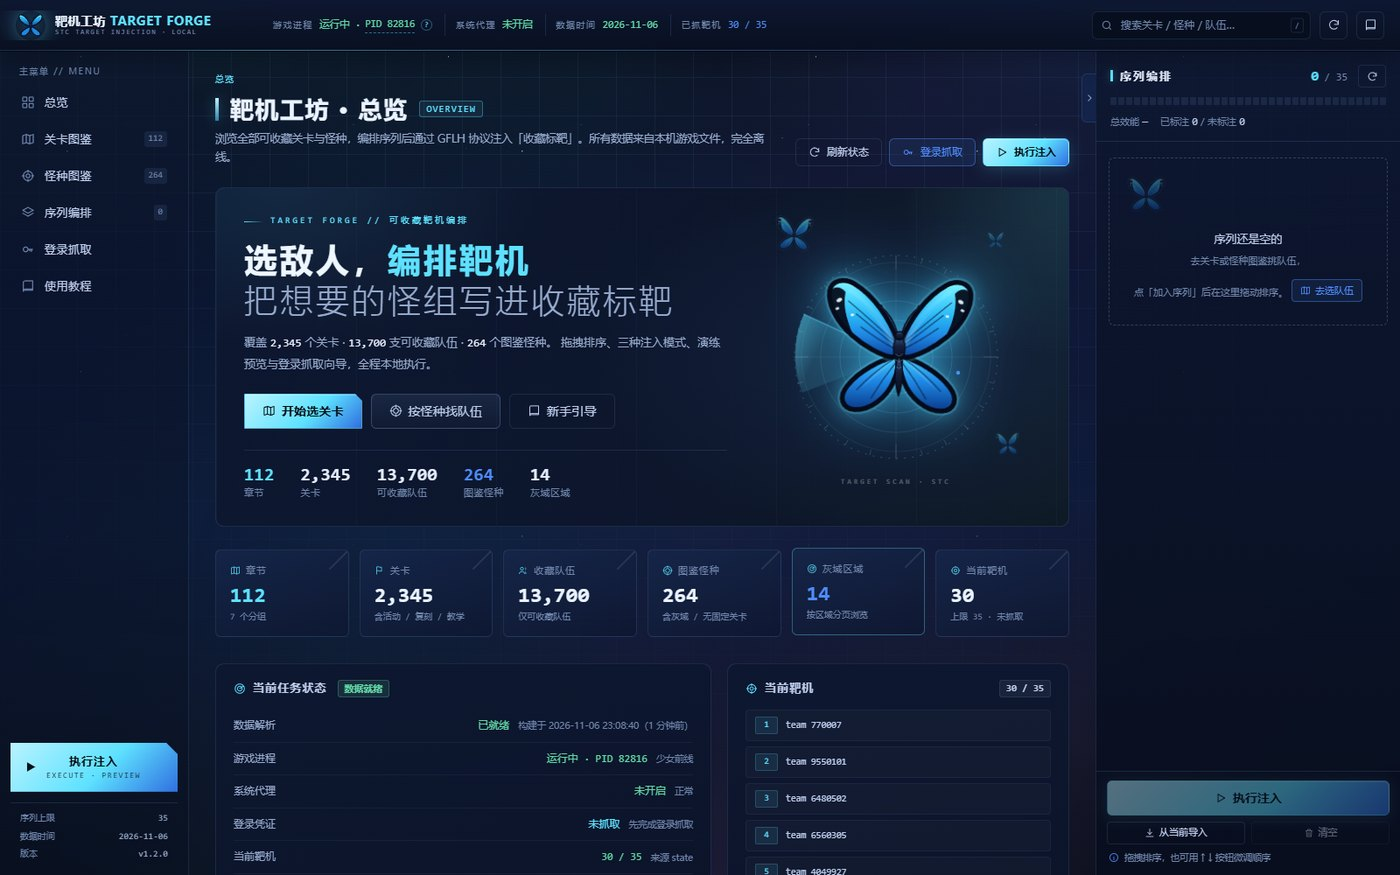
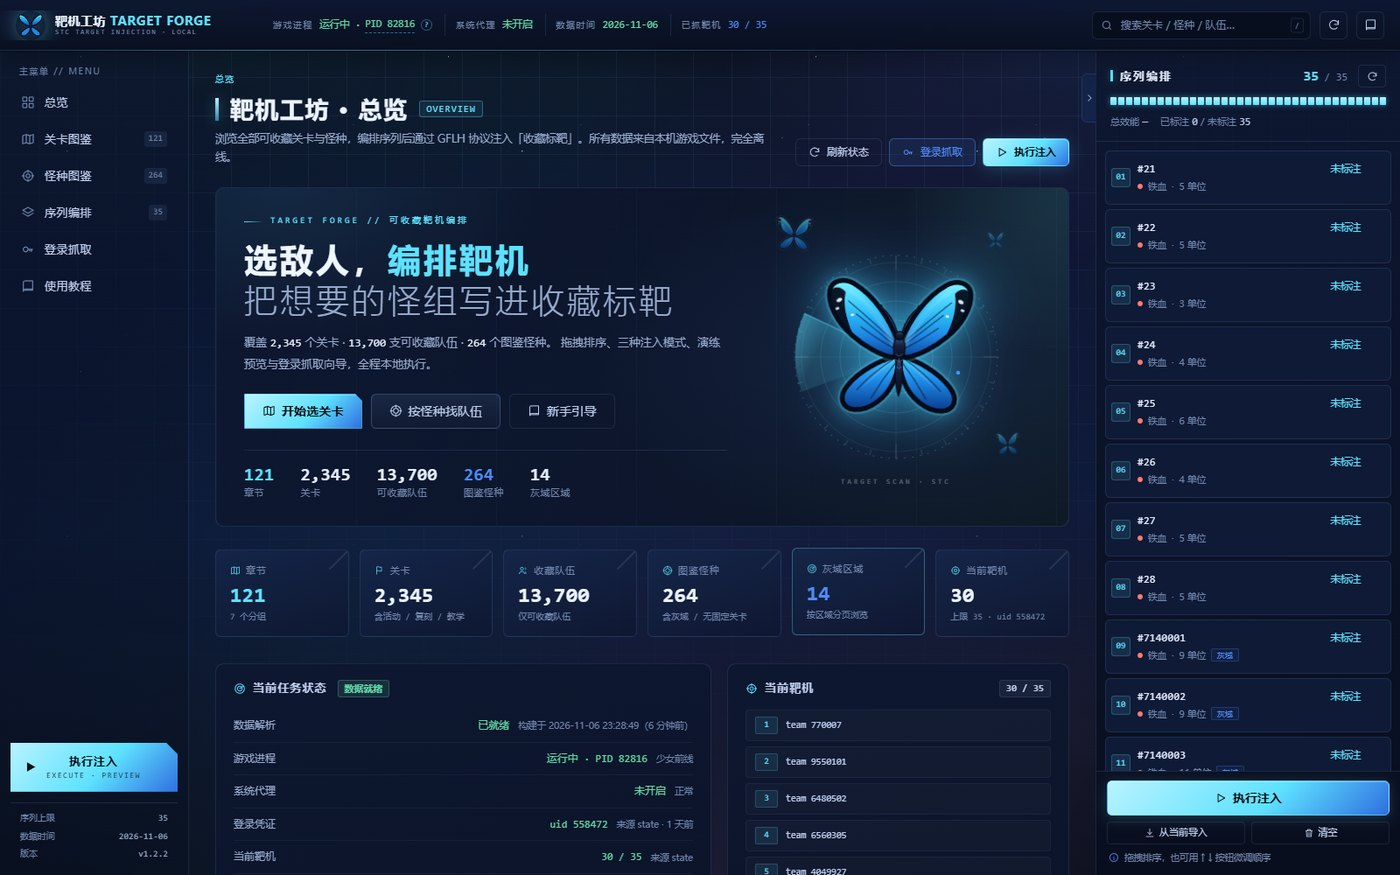
v1.2.2：积分关卡改为 mission.event_score 精确判定（思域迷航·禁止喂食EX 等 53 个积分关卡按 mission 拆章）

diff --git a/targetforge/tests/test_catalog.py b/targetforge/tests/test_catalog.py
@@ -4,12 +4,12 @@
 
     python -m unittest targetforge.tests.test_catalog -v
 
-覆盖任务验收点（task-7）：
-* 章节 7 组（main/event/score/tutorial/simulation/grayzone/orphan），活动/往期复刻/
-  特殊作战合并进 event，积分关卡独立成组，自画像可搜；
+覆盖任务验收点（task-11）：
+* 章节 7 组（main/event/score/tutorial/simulation/grayzone/orphan）；活动/往期复刻/
+  特殊作战合并进 event；积分关卡按 **mission.event_score**（mission 级）拆章：
+  混合活动（思域迷航）拆成 event+score 两章，全积分 campaign 只有 score 章；
 * 灰域 14 个区域（含 庇护所旧址 / 坍缩狭缝）；
-* 物种非互斥 flag：normal/grayzone/orphan 过滤数 = 244/66/211（±2），灰域过滤含
-  法官（灰域Boss）变体；
+* 物种非互斥 flag：normal/grayzone/orphan 过滤数 = 244/66/211（±2）；
 * 效能 power / power_known + power_min/power_max/power_known/sort 筛选排序；
 * 队伍/物种列表分页；species() 无参仍返回全量 teams（app.py 兼容）；
 * 小怪图标：icon 字段（species / team_summary.species / detail members）+ 覆盖率；
@@ -35,14 +35,26 @@ EXPECT_TEAMS = 13700
 EXPECT_SPECIES = 264
 EXPECT_STAGES = 2345
 EXPECT_MISSIONS_IN_TABLE = 3986
-EXPECT_CHAPTERS = 112
+EXPECT_CHAPTERS = 121
 
 GROUP_ORDER = ["main", "event", "score", "tutorial", "simulation", "grayzone", "orphan"]
 GROUP_TITLES = ["主线", "活动", "积分关卡", "教学", "模拟作战", "灰域探查", "无固定关卡"]
-EXPECT_GROUP_CHAPTERS = {"main": 14, "event": 74, "score": 15, "tutorial": 6,
+EXPECT_GROUP_CHAPTERS = {"main": 14, "event": 73, "score": 25, "tutorial": 6,
                          "simulation": 1, "grayzone": 1, "orphan": 1}
-EXPECT_GROUP_STAGES = {"main": 140, "event": 843, "score": 25, "tutorial": 40,
+EXPECT_GROUP_STAGES = {"main": 140, "event": 815, "score": 53, "tutorial": 40,
                        "simulation": 9, "grayzone": 1288, "orphan": 0}
+#: mission.event_score 非空且有可收藏队伍的积分关卡
+EXPECT_SCORE_STAGES = 53
+EXPECT_SCORE_CHAPTERS = 25
+#: v1.4 期望的 score 章节标题（15 个全积分 campaign + 8 个混合活动的「· 积分关卡」章 + 静默沙盘）
+EXPECT_SCORE_TITLES = {
+    "终焉花海+", "谜境守卫+", "混沌落幕+", "噩梦迷城+", "驱雾行动+", "秘密涡点+",
+    "飓风营救+", "马蜂窝+", "虚数迷宫+", "坠入兔洞+", "贝蒂数", "逃亡圣咏",
+    "自画像", "从潘洛斯阶梯跃下", "铁雨礼赞", "静默沙盘",
+    "思域迷航 · 积分关卡", "迷笼猜想 · 积分关卡", "里坎禁猎区 · 积分关卡",
+    "静风点 · 积分关卡", "熵减焓增 · 积分关卡", "镜像论 · 积分关卡",
+    "双联乱数 · 积分关卡", "偏振光 · 积分关卡", "裂变链接 · 积分关卡",
+}
 
 GRAY_AREAS = ["共生净土", "晶团挖掘点", "旅团商道", "放射区", "人形复制工厂",
               "废弃居民区", "秘密通道", "图腾圣所", "装甲突击", "交易地",
@@ -203,33 +215,75 @@ class CatalogDataTest(unittest.TestCase):
         self.assertEqual(self.catalog.stage(1104)["stage"]["chapter_id"], "simulation")
 
     def test_score_chapters(self):
+        """score 是 mission.event_score 判定（mission 级）：25 章 / 53 关。"""
         score = self.groups["score"]
-        self.assertEqual(len(score["chapters"]), 15)
+        self.assertEqual(len(score["chapters"]), EXPECT_SCORE_CHAPTERS)
+        self.assertEqual(sum(chapter["stage_count"] for chapter in score["chapters"]),
+                         EXPECT_SCORE_STAGES)
         for chapter in score["chapters"]:
             self.assertEqual(chapter["category"], "score")
+            self.assertEqual(chapter["kind"], "score")
             self.assertEqual(chapter["tags"], ["积分关卡"])
             self.assertIn("积分关卡", chapter["subtitle"])
-        # 自画像：标题=自画像，parent 慢休克（-40403）
+        # 标题集合：全积分 campaign + 混合活动的「· 积分关卡」章
+        self.assertEqual({chapter["title"] for chapter in score["chapters"]},
+                         EXPECT_SCORE_TITLES)
+        # 自画像：标题=自画像，parent 慢休克（-40403，全部任务都是积分关卡）
         portrait = next((chapter for chapter in score["chapters"]
                          if chapter["title"] == "自画像"), None)
-        self.assertIsNotNone(portrait, [c["title"] for c in score["chapters"]])
+        self.assertIsNotNone(portrait)
         self.assertEqual(portrait["stage_count"], 2)
         self.assertIn("慢休克", portrait["subtitle"])
-        self.assertIn("积分关卡", portrait["subtitle"])
-        # 积分关卡必须是「单关（或 -4040x 强制）」的 campaign：不是 4 关的魔方行动+
-        self.assertEqual({chapter["title"] for chapter in score["chapters"]}, {
-            "终焉花海+", "谜境守卫+", "混沌落幕+", "噩梦迷城+", "驱雾行动+",
-            "秘密涡点+", "飓风营救+", "马蜂窝+", "虚数迷宫+", "坠入兔洞+",
-            "贝蒂数", "逃亡圣咏", "自画像", "从潘洛斯阶梯跃下", "铁雨礼赞",
-        })
-        self.assertNotIn("魔方行动", [chapter["title"] for chapter in score["chapters"]])
-        self.assertNotIn("盲拆法则", [chapter["title"] for chapter in score["chapters"]])
-        # 搜索：自画像 / 积分关卡 / 慢休克 都能命中
-        for query in ("自画像", "积分关卡", "慢休克"):
+        # 贝蒂数：9 关全部 event_score，含 三维流形 G-1..S-2
+        beiti = self.catalog.chapter("score--40401")
+        self.assertIsNotNone(beiti)
+        self.assertEqual(beiti["chapter"]["stage_count"], 9)
+        beiti_titles = [stage["title"] for stage in beiti["stages"]]
+        self.assertIn("三维流形G-1", beiti_titles)
+        self.assertIn("三维流形S-2", beiti_titles)
+        # 搜索：自画像 / 积分关卡 / 三维流形 / 禁止喂食EX 都能命中 score 关卡
+        for query in ("自画像", "积分关卡", "三维流形", "禁止喂食EX"):
             result = self.catalog.search(query, limit=10)
             self.assertTrue(result["stages"], f"搜索 {query!r} 没有结果")
-        result = self.catalog.search("自画像")
-        self.assertTrue(any(stage["chapter_title"] == "自画像" for stage in result["stages"]))
+        portrait_hits = self.catalog.search("自画像")["stages"]
+        self.assertTrue(any(stage["chapter_title"] == "自画像" for stage in portrait_hits))
+        weidu = self.catalog.search("三维流形")["stages"]
+        self.assertTrue(any(stage["chapter_title"] == "贝蒂数" for stage in weidu))
+
+    def test_event_score_mission_split(self):
+        """混合活动拆章：思域迷航(-61) 2 关进 score，其余 20 关留在 event。"""
+        score = {chapter["id"]: chapter for chapter in self.groups["score"]["chapters"]}
+        event = {chapter["id"]: chapter for chapter in self.groups["event"]["chapters"]}
+        # 思域迷航：score 只含 禁止喂食 / 禁止喂食EX
+        score_chapter = self.catalog.chapter("score--61")
+        self.assertIsNotNone(score_chapter)
+        self.assertEqual(score_chapter["chapter"]["stage_count"], 2)
+        self.assertEqual(sorted(stage["title"] for stage in score_chapter["stages"]),
+                         ["禁止喂食", "禁止喂食EX"])
+        self.assertEqual({stage["id"] for stage in score_chapter["stages"]},
+                         {11445, 11458})
+        self.assertIn("思域迷航", score_chapter["chapter"]["title"])
+        # 同 campaign 的 event 章保留其余 20 关且不含积分关卡任务
+        event_chapter = self.catalog.chapter("event--61")
+        self.assertIsNotNone(event_chapter)
+        self.assertEqual(event_chapter["chapter"]["stage_count"], 20)
+        event_ids = {stage["id"] for stage in event_chapter["stages"]}
+        self.assertFalse(event_ids & {11445, 11458})
+        # 全积分 campaign 不再生成 event 章（贝蒂数 / 终焉花海+ / 静默沙盘）
+        for campaign in (-40401, -55, -77):
+            self.assertNotIn(f"event-{campaign}", event)
+            self.assertIn(f"score-{campaign}", score)
+        # 全局：score 关卡与 event 关卡集合不重叠
+        score_stage_ids = {stage["id"] for chapter in score.values()
+                           for stage in self.catalog.chapter(chapter["id"])["stages"]}
+        event_stage_ids = {stage["id"] for chapter in event.values()
+                           for stage in self.catalog.chapter(chapter["id"])["stages"]}
+        self.assertEqual(len(score_stage_ids), EXPECT_SCORE_STAGES)
+        self.assertFalse(score_stage_ids & event_stage_ids)
+        # 普通 EX 无 event_score 的不算积分关卡；10365 终焉花海EX 有 event_score
+        self.assertIn(11451, event_stage_ids)       # 同频干扰EX（无 event_score）
+        self.assertNotIn(11451, score_stage_ids)
+        self.assertIn(10365, score_stage_ids)       # 终焉花海EX（有 event_score）
 
     # -- 灰域 14 区域 -------------------------------------------------
     def test_grayzone_areas(self):

diff --git a/targetforge/catalog.py b/targetforge/catalog.py
@@ -14,9 +14,10 @@ v1.2 变化（用户实测反馈）
 1. **章节 7 组**：``main``（主线）/ ``event``（活动）/ ``score``（积分关卡）/
    ``tutorial``（教学）/ ``simulation``（模拟作战）/ ``grayzone``（灰域探查）/
    ``orphan``（无固定关卡）。往期复刻、特殊作战并入 event（用 subtitle/tags 标记）。
-   积分关卡 = campaign ∈ {-40401..-40405} 强制；其余活动名含「+」的 campaign
-   必须**只有 1 个有可收藏队伍的 mission** 才算（4 关的 魔方行动+ 是常驻/复刻活动，
-   归 event 组并用「往期复刻」标记）。
+   积分关卡是 **mission 级**：``mission.event_score`` 非空即积分关卡（权威字段）。
+   同一 campaign 里只有部分任务是积分关卡时会拆成 score 章 + event 章（如
+    思域迷航 -61：禁止喂食/禁止喂食EX 进 score，其余 20 关留在 event）；全积分
+    campaign（贝蒂数、终焉花海+、自画像、-77 静默沙盘…）只生成 score 章。
 2. **灰域 14 个区域**：区域名直接取 client_text 的 mission 标题前缀
    （去掉尾部 ``-I/II`` 编号和空格），包含 庇护所旧址 / 坍缩狭缝。
 3. **怪种分类改为非互斥 flag**：``has_normal`` / ``has_grayzone`` / ``has_orphan``
@@ -114,7 +115,8 @@ GROUP_TAGS = {
     "orphan": ["无固定关卡"],
 }
 
-#: 固定属于「积分关卡」的 campaign（用户实测：贝蒂数/逃亡圣咏/自画像/从潘洛斯阶梯跃下/铁雨礼赞）
+#: -4040x 积分关卡的标题优先用 mission_event.event_name
+#: （例如 -40403 的章节名是「慢休克」，但积分关卡名是「自画像」）
 SCORE_SPECIAL_CAMPAIGNS: frozenset[int] = frozenset({-40401, -40402, -40403, -40404, -40405})
 
 #: 模拟作战的固定 mission id 段（1104..1106 的 map_res 是 OPS5_Y，1701..1745 是靶场系列）
@@ -505,11 +507,12 @@ def _classify_mission(
     mid: int,
     mission: dict,
     *,
-    score_campaigns: set[int],
+    score_mission_ids: set[int],
 ) -> tuple[str | None, str | None]:
     """返回 ``(category, chapter_id)``；None 表示该关卡不产生章节。
 
-    活动/积分关卡按 campaign 一章（不跨 campaign 合并），章节标题在聚合阶段补。
+    积分关卡 = ``mission.event_score`` 非空的 mission（mission 级，见任务 v1.4）；
+    同一 campaign 的其它任务仍归 event 章节，全积分 campaign 只生成 score 章节。
     """
     campaign = _int(mission.get("campaign"))
     map_res = str(mission.get("map_res_name") or "")
@@ -526,8 +529,8 @@ def _classify_mission(
     # 4. 主线：campaign 0..13、id < 90000、非模拟作战地图
     if 0 <= campaign <= 13 and mid < 90000 and not map_res.startswith("Moni"):
         return ("main", f"main-{campaign}")
-    # 5. 积分关卡
-    if campaign in score_campaigns:
+    # 5. 积分关卡：mission.event_score 非空（mission 级判定）
+    if mid in score_mission_ids:
         return ("score", f"score-{campaign}")
     # 6. 其余全部并入活动（往期复刻 / 特殊作战 也在这里，靠 subtitle/tags 区分）
     return ("event", f"event-{campaign}")
@@ -602,9 +605,8 @@ def _build_payload() -> dict:
             "chapter_name": _clean_text(text.get(str(row.get("chapter_name") or ""), "")),
             "tag": _clean_text(text.get(str(row.get("tag") or ""), "")),
         }
-    # 含「+」的活动 campaign 候选：是否算积分关卡还要看该 campaign 有几个
-    # 有可收藏队伍的 mission（见 mission_teams 构建后的判定）——4 关的
-    # 魔方行动+（campaign -6/-7）是常驻/复刻活动，不是积分关卡。
+    # 含「+」的活动 campaign（用于 event 章节的「往期复刻」标记，如 魔方行动+ -6/-7；
+    # 是否积分关卡由 mission.event_score 决定，见 mission_teams 构建后的判定）
     plus_campaigns: set[int] = set()
     for campaign, activity in campaign_to_act.items():
         if _has_plus(activity.get("chapter_name")):
@@ -639,19 +641,22 @@ def _build_payload() -> dict:
                 mission_teams[mission_id].add(team_id)
                 team_missions[team_id].add(mission_id)
 
-    # ---- 积分关卡判定（必须在 mission_teams 之后） ----------------------
-    # 1) campaign ∈ {-40401..-40405} → 强制积分关卡（可 1~9 关）；
-    # 2) 其余活动名含「+」且该 campaign **只有 1 个有可收藏队伍的 mission** → 积分关卡；
-    #    多关的「+」活动（如 魔方行动+ campaign -6/-7，4 关）是常驻/复刻活动，回 event 组。
-    campaign_mission_counts: Counter = Counter()
+    # ---- 积分关卡判定（权威字段：mission.event_score 非空，mission 级） ----
+    # 用户实测：积分关卡是 mission 级而不是 campaign 级。
+    # 只有 event_score 非空、且该 mission 有可收藏队伍、且不是灰域的任务才算积分关卡；
+    # 同一 campaign 的其它任务仍留在 event 章节（混合活动会拆成 event+score 两章）。
+    score_mission_ids: set[int] = set()
     for mission_id in mission_teams:
         mission = missions.get(mission_id)
-        if mission is not None:
-            campaign_mission_counts[_int(mission.get("campaign"))] += 1
-    score_campaigns: set[int] = set(SCORE_SPECIAL_CAMPAIGNS)
-    for campaign in plus_campaigns:
-        if campaign_mission_counts.get(campaign, 0) == 1:
-            score_campaigns.add(campaign)
+        if mission is None:
+            continue
+        if _int(mission.get("campaign")) == -404:
+            continue
+        if str(mission.get("event_score") or "").strip():
+            score_mission_ids.add(mission_id)
+    score_campaigns: set[int] = {
+        _int((missions.get(mid) or {}).get("campaign")) for mid in score_mission_ids
+    }
 
     # ---- 关卡归类 → 章节骨架（每个 campaign 一章，不跨 campaign 合并） --
     gray_stage_ids: list[int] = []
@@ -675,7 +680,7 @@ def _build_payload() -> dict:
             mid_chapter[mission_id] = "event-unknown"
             continue
         category, chapter_id = _classify_mission(
-            mission_id, mission, score_campaigns=score_campaigns)
+            mission_id, mission, score_mission_ids=score_mission_ids)
         if category is None:
             continue
         campaign = _int(mission.get("campaign"))
@@ -1009,12 +1014,16 @@ def _build_payload() -> dict:
         elif category == "simulation":
             title = "模拟作战·靶场"
         elif category == "score":
+            kind = "score"
             if campaign in SCORE_SPECIAL_CAMPAIGNS:
                 # -404xx：章节名可能被大活动名占用（-40403 = 慢休克 / 自画像），优先 event_name
-                title = event_name or chapter_name or first_title or f"积分关卡 {campaign}"
+                base_title = event_name or chapter_name or first_title or f"积分关卡 {campaign}"
             else:
-                # 带「+」的积分关卡：优先活动内章节名（如 终焉花海+ / 混沌落幕+）
-                title = chapter_name or event_name or first_title
+                # 其它积分关卡：优先活动内章节名（如 终焉花海+ / 混沌落幕+ / 思域迷航）
+                base_title = chapter_name or event_name or first_title
+            # 混合活动（同 campaign 还有非积分关卡任务）会同时存在 event 章，标题加后缀区分
+            mixed = campaign is not None and f"event-{campaign}" in chapters
+            title = f"{base_title} · 积分关卡" if mixed and base_title else base_title
             parent = activity_name or event_name
             subtitle = f"{parent} · 积分关卡" if parent else "积分关卡"
             tags = ["积分关卡"]

diff --git a/targetforge/app.py b/targetforge/app.py
@@ -25,7 +25,7 @@ APP_DIR = Path(__file__).resolve().parent
 ROOT = APP_DIR.parent
 STATIC_DIR = APP_DIR / "static"
 MAX_TARGETS = 35
-VERSION = "1.2.0"
+VERSION = "1.2.2"
 
 if str(ROOT) not in sys.path:
     sys.path.insert(0, str(ROOT))

diff --git a/README.md b/README.md
@@ -8,7 +8,7 @@
 
 ![总览：深蓝星空 + 大蓝闪蝶](docs/screenshots/overview.jpg)
 
-| 关卡图鉴：7 组 112 章（含积分关卡） | 怪种图鉴：每只怪都有真实头像 |
+| 关卡图鉴：7 组 121 章（含积分关卡） | 怪种图鉴：每只怪都有真实头像 |
 |---|---|
 | ![关卡图鉴](docs/screenshots/chapters.jpg) | ![怪种图鉴](docs/screenshots/species.jpg) |
 
@@ -24,7 +24,7 @@
 
 ## 功能
 
-- **关卡图鉴**：**7 组 112 章 2345 关**——主线 / 活动（含往期复刻、特殊作战）/ **积分关卡**
+- **关卡图鉴**：**7 组 121 章 2345 关**——主线 / 活动（含往期复刻、特殊作战）/ **积分关卡**（按 mission.event_score 精确标记，混合活动会单独拆出积分关卡章，如「思域迷航 · 积分关卡：禁止喂食 / 禁止喂食EX」）
   （终焉花海+、谜境守卫+、自画像、贝蒂数…）/ 教学 / 模拟作战 / 灰域探查 / 无固定关卡；
   章节卡 → 关卡列表 → 该关可收藏队伍，支持「整关全部加入序列」。
 - **怪种图鉴**：264 个图鉴怪种，每只怪都有从**本机游戏资源提取的真实头像**（透明底 160px）；
@@ -44,7 +44,7 @@
   抓取 uid / sign / 当前靶机 → 关闭代理；也可加载历史凭证列表。
 - **教程**：首次进入自动 6 步新手引导；教程页含概念、完整流程、抓取分步、三种执行模式、10 条 FAQ、安全须知。
 
-数据规模（以当前国服客户端为例）：7 组 112 章 / 2345 关 / 13,700 支可收藏队伍 / 264 个可收藏怪种 /
+数据规模（以当前国服客户端为例）：7 组 121 章（活动 73 + 积分关卡 25）/ 2345 关 / 13,700 支可收藏队伍 / 264 个可收藏怪种 /
 灰域 14 区域 3352 队 / 无固定关卡 4381 队。
 
 ## 前置依赖
@@ -136,7 +136,7 @@ python -c "from targetforge import catalog; catalog.build(force=True)"
 ## 验证
 
 ```powershell
-python -m unittest discover -s targetforge/tests -t .      # 123 个单测（app / catalog / gflh）
+python -m unittest discover -s targetforge/tests -t .      # 125 个单测（app / catalog / gflh）
 python targetforge/tools/api_smoke.py --url http://127.0.0.1:8765   # 真实数据 API 冒烟（29 项）
 python targetforge/tools/ui_selfcheck.py --url http://127.0.0.1:8765 # Playwright 页面自检 + 16 张截图
 ```
@@ -176,6 +176,13 @@ gflh_advance/
   常规关卡队伍该字段为 0；没有可靠公式可以从面板数值反推，所以应用不伪造效能，只对「有标注」的队伍做筛选排序。
 
 ## 更新记录
+
+### v1.2.2（2026-11-06）
+
+- **积分关卡改为 mission 级权威判定**：mission.event_score 非空即积分关卡（不再用 campaign 名称规则）；
+  混合活动会拆出独立积分关卡章（如「思域迷航 · 积分关卡」= 禁止喂食 / 禁止喂食EX；活动组保留其余 20 关）。
+- 修正后：**积分关卡 25 章 / 53 关**，活动 73 章，总章节 112 → **121**，总关卡仍 2345。
+- 贝蒂数 9 关（一维/二维环面/三维流形 G-1..S-2）确认全部为积分关卡；魔方行动/盲拆法则仍属活动。
 
 ### v1.2.1（2026-11-06）
 

diff --git a/targetforge/README.md b/targetforge/README.md
@@ -26,7 +26,7 @@ python -m targetforge --rebuild-catalog   # 强制重建数据缓存
 | 页面 | 内容 |
 |---|---|
 | 总览 | 游戏进程 / 系统代理 / 当前靶机数 / 数据时间 + 四步使用流程 |
-| 关卡图鉴 | **7 组 112 章 2345 关**：主线 / 活动（含往期复刻、特殊作战）/ **积分关卡**（终焉花海+、谜境守卫+、自画像…）/ 教学 / 模拟作战 / 灰域探查 / 无固定关卡。章节卡片 → 关卡列表 → 该关可收藏队伍（可整关加入序列） |
+| 关卡图鉴 | **7 组 121 章 2345 关**：主线 / 活动（含往期复刻、特殊作战）/ **积分关卡**（mission.event_score 精确标记；终焉花海+、谜境守卫+、自画像、思域迷航·积分关卡…）/ 教学 / 模拟作战 / 灰域探查 / 无固定关卡。章节卡片 → 关卡列表 → 该关可收藏队伍（可整关加入序列） |
 | 怪种图鉴 | 264 个图鉴怪种，每只怪都有**本机游戏资源提取的真实头像**；按阵营 / 固定关卡 / 灰域 / 无固定关卡筛选（灰域过滤是「在灰域出现过」，含全部灰域 BOSS）；怪种详情列出所有怪组 |
 | 效能筛选 | 支持按怪组效能筛选/排序（有标注 / 自定义区间；按效能、总血、单位数排序）。客户端只有积分关卡/部分特殊队伍带效能，其余显示「未标注」 |
 | 队伍详情 | 队伍参数（效能/单位数/总血/关卡出处）+ 单位聚合表（等级/编制/数量/防御修正/坐标/HP/火力/命中/回避/护甲/穿甲/射程/移速/护盾/力场）——**不含技能信息** |
@@ -35,7 +35,7 @@ python -m targetforge --rebuild-catalog   # 强制重建数据缓存
 | 登录抓取 | 内置向导：启动本地抓包代理（端口可配置，默认 18080）→ 设置系统代理并重启游戏 → 等抓到 uid/sign/当前靶机 → 完成并恢复代理；也可加载历史凭证 |
 | 使用教程 | 概念 / 完整流程 / 登录抓取分步 / 三种执行模式 / FAQ / 安全须知；首次进入自动弹新手引导 |
 
-数据规模（当前客户端）：7 组 112 章 · 2345 关（灰域 1288 节点折叠为 14 个区域，其中庇护所旧址/坍缩狭缝暂无可收藏队伍）·
+数据规模（当前客户端）：7 组 121 章（活动 73 + 积分关卡 25） · 2345 关（灰域 1288 节点折叠为 14 个区域，其中庇护所旧址/坍缩狭缝暂无可收藏队伍）·
 13700 支可收藏队伍 · 264 个可收藏怪种（怪种头像 264/264，代码级真实头像 256/282）· 灰域 3352 队 / 无固定关卡 4381 队。
 
 小怪头像是从本机游戏资源导出的（`pic_<Code>_SS` 纹理，透明底 160px），生成命令：
